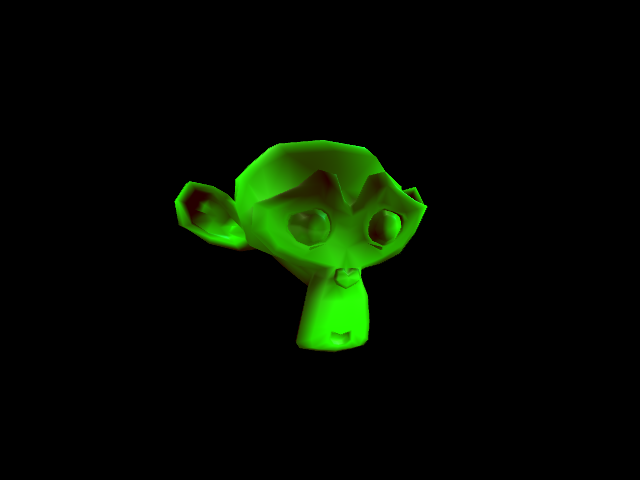
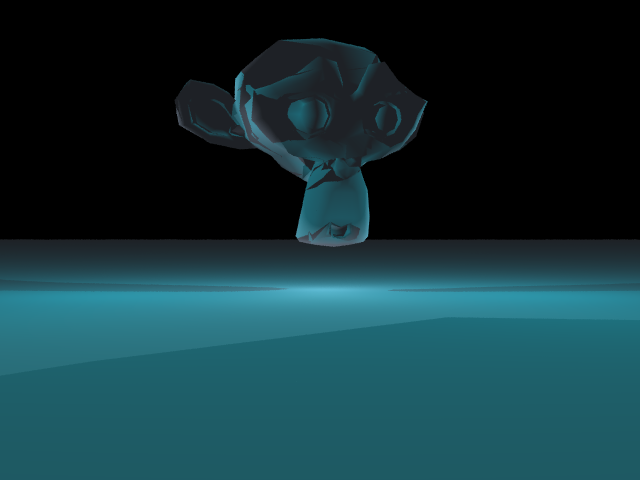
Monkey with shadows

diff --git a/raytracer/include/scenes/Scene_Blender.h b/raytracer/include/scenes/Scene_Blender.h
@@ -6,8 +6,9 @@ vp->SetWidth(640)
 .SetHeight(480)
 .SetPixelSize(1.f);
 vp->SetFocalDistance(800.f);
-LOG(INFO) << "Jitter Sampler with 64 samples per pixel.";
-vp->SetSamplerPtr(new Jitter(4));
+uint16_t num_samples = 16;
+LOG(INFO) << "Jitter Sampler with " << num_samples << " samples per pixel.";
+vp->SetSamplerPtr(new Jitter(num_samples));
 imgBuffer = new ImageBufferPNG();
 imgBuffer->AllocImage(vp->GetWidth(), vp->GetHeight());
 tracerPtr = new MultiObjects(this);
@@ -39,12 +40,16 @@ GlossySpecular* specular_mat = new GlossySpecular();
 //{
 //    sphere_material->SetTexture(png);
 //}
-ambient_mat->SetCd(RGBColor(glm::vec3(1.f, 0.f, 0.f)));
+ambient_mat->SetCd(RGBColor(glm::vec3(202.f/255.f, 225.f/255.f, 1.f)));
 ambient_mat->SetKd(ambient_kd);
-diffuse_mat->SetCd(RGBColor(glm::vec3(0.f, 1.f, 0.f)));
+diffuse_mat->SetCd(RGBColor(glm::vec3(202.f/255.f, 225.f/255.f, 1.f)));
 sphere_material->SetAmbient(ambient_mat);
 sphere_material->SetDiffuse(diffuse_mat);
 sphere_material->SetSpecular(specular_mat);
 AssetStore::Instance().GetMaterials().store(qui::Hash("PhongMaterial").value, std::shared_ptr<Material>(sphere_material));
 
 outputFileName = "Blender.png";
+
+Plane* plane = new Plane(glm::vec3(0.f, 50.f, -10.f), glm::vec3(0.f, -1.0f, 0.f));
+plane->SetMaterial("PhongMaterial");
+this->AddObject(plane);

diff --git a/raytracer/source/common/World.cpp b/raytracer/source/common/World.cpp
@@ -76,12 +76,18 @@ void World::RenderScene()
     LOG(INFO) << "ViewPlane: " << vp->GetWidth() << "x" << vp->GetHeight();
     LOG(INFO) << "Output file: " << outputFileName;
     
-    uint8_t num_threads = 8;
+    uint8_t num_threads = 12;
     uint16_t int_length = vp->GetWidth() / num_threads;
     for (int i = 0; i < num_threads; i++)
     {
-        threads.push_back(std::thread ([i, int_length, this] {
-            this->RenderLines(i * int_length, (i+1) * int_length);
+        threads.push_back(std::thread ([i, int_length, this, num_threads] {
+            if (i == num_threads-1)
+            {
+                this->RenderLines(i * int_length, vp->GetWidth());
+            } else
+            {
+                this->RenderLines(i * int_length, (i+1) * int_length);
+            }
             finishedThreads++;
         }));
         threads[threads.size() - 1].detach();

diff --git a/raytracer/source/common/geom/Plane.cpp b/raytracer/source/common/geom/Plane.cpp
@@ -19,7 +19,7 @@ Plane::Plane(const glm::vec3& point, const glm::vec3& norm)
  */
 bool Plane::Hit(const Ray& ray, double& tmin, HitRec& hr) const
 {
-    float t;
+    double t;
     bool result = RayIntersects(ray, t);
     if (result)
     {
@@ -30,13 +30,13 @@ bool Plane::Hit(const Ray& ray, double& tmin, HitRec& hr) const
     return result;
 }
 
-bool Plane::DidShadowHit(const Ray& ray, float& tmin)
+bool Plane::DidShadowHit(const Ray& ray, double& tmin)
 {
     bool hit = RayIntersects(ray, tmin);
     return hit;
 }
 
-bool Plane::RayIntersects(const Ray& ray, float& tmin) const
+bool Plane::RayIntersects(const Ray& ray, double& tmin) const
 {
     glm::vec3 tmp = point - ray.o;
     double a = glm::dot(tmp, norm);

diff --git a/raytracer/include/geom/Plane.h b/raytracer/include/geom/Plane.h
@@ -15,13 +15,13 @@ class Plane : public GeometricObject
 {
 public:
     Plane(const glm::vec3& point, const glm::vec3& norm);
-    bool Hit(const Ray& ray, double& tmin, HitRec& hr) const;
-    bool DidShadowHit(const Ray& ray, float& t);
+    bool Hit(const Ray& ray, double& tmin, HitRec& hr) const override;
+    bool DidShadowHit(const Ray& ray, double& t) override;
 
 private:
     glm::vec3 norm;
     glm::vec3 point;
     static const double kEpsilon;
-    bool RayIntersects(const Ray& ray, float& tmin) const;
+    bool RayIntersects(const Ray& ray, double& tmin) const;
 };
 

diff --git a/raytracer/source/common/geom/AssimpMesh.cpp b/raytracer/source/common/geom/AssimpMesh.cpp
@@ -89,9 +89,11 @@ bool AssimpMesh::Hit(const Ray& ray, double& tmin, HitRec& hr) const
     return intersects;
 }
 
-bool AssimpMesh::DidShadowHit(const Ray& ray, float& t)
+bool AssimpMesh::DidShadowHit(const Ray& ray, double& t)
 {
-    return false;
+    World w;
+    HitRec hr(w);
+    return Hit(ray, t, hr);
 }
 
 bool AssimpMesh::IsPointInsideTriangle(const glm::vec3& P, const glm::vec3& normal, const glm::vec3& v0, const glm::vec3& v1, const glm::vec3& v2) const

diff --git a/raytracer/include/geom/GeometricObject.h b/raytracer/include/geom/GeometricObject.h
@@ -29,7 +29,7 @@ public:
     virtual bool Hit(const Ray& ray, double& tmin, HitRec& hr) const =0;
     virtual std::string& GetMaterial();
     virtual GeometricObject& SetMaterial(const std::string& material);
-    virtual bool DidShadowHit(const Ray& ray, float& t) =0;
+    virtual bool DidShadowHit(const Ray& ray, double& t) =0;
 protected:
     std::string material;
 };

diff --git a/raytracer/include/geom/AssimpMesh.h b/raytracer/include/geom/AssimpMesh.h
@@ -10,7 +10,7 @@ class AssimpMesh : public GeometricObject
 public:
     AssimpMesh(const aiScene* scene, aiMesh* mesh);
     bool Hit(const Ray& ray, double& tmin, HitRec& hr) const override;
-    bool DidShadowHit(const Ray& ray, float& t) override;
+    bool DidShadowHit(const Ray& ray, double& t) override;
 private:
     const aiScene *scene;
     aiMesh *mesh;

diff --git a/raytracer/include/geom/Sphere.h b/raytracer/include/geom/Sphere.h
@@ -10,7 +10,7 @@ public:
     bool Hit(const Ray& ray, double& tmin, HitRec& hr) const;
     void SetCenter(const glm::vec3& center);
     void SetRadius(double radius);
-    bool DidShadowHit(const Ray& ray, float& t) override;
+    bool DidShadowHit(const Ray& ray, double& t) override;
 private:
     glm::vec3 center;
     double radius;

diff --git a/raytracer/source/common/lights/PointLight.cpp b/raytracer/source/common/lights/PointLight.cpp
@@ -55,7 +55,7 @@ glm::vec3 PointLight::GetLocation() const
 
 bool PointLight::IsInShadow(const Ray& ray, const HitRec& hr) const
 {
-    float t;
+    double t;
     size_t num_objects = hr.world.GetObjects().size();
     float d = glm::distance(location, ray.o);
     for (size_t i = 0; i < num_objects; ++i)

diff --git a/raytracer/source/common/MeshLoader.cpp b/raytracer/source/common/MeshLoader.cpp
@@ -73,6 +73,7 @@ void MeshLoader::LoadMeshes(const aiScene* scene)
     {
         AssimpMesh *object = new AssimpMesh(scene, scene->mMeshes[i]);
         object->SetMaterial("PhongMaterial");
+        LOG(INFO) << "Num textures: " << scene->mNumTextures;
         world->AddObject(object);
     }
 }

diff --git a/raytracer/source/common/geom/Sphere.cpp b/raytracer/source/common/geom/Sphere.cpp
@@ -56,7 +56,7 @@ void Sphere::SetRadius(double radius)
     this->radius = radius;
 }
 
-bool Sphere::DidShadowHit(const Ray& ray, float& tmin)
+bool Sphere::DidShadowHit(const Ray& ray, double& tmin)
 {
     double t;
     glm::vec3 temp = ray.o - center;
